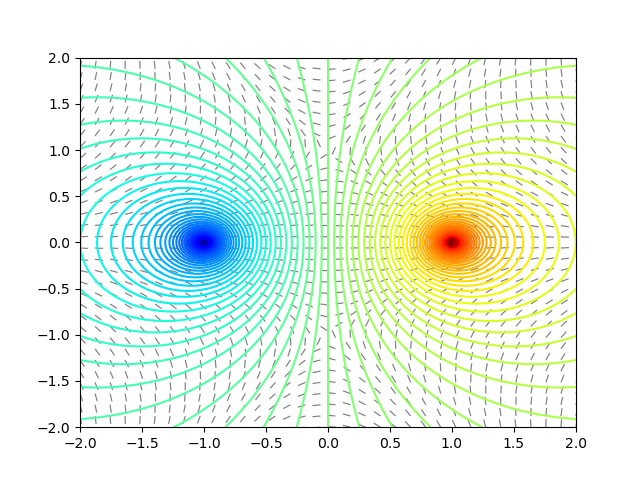
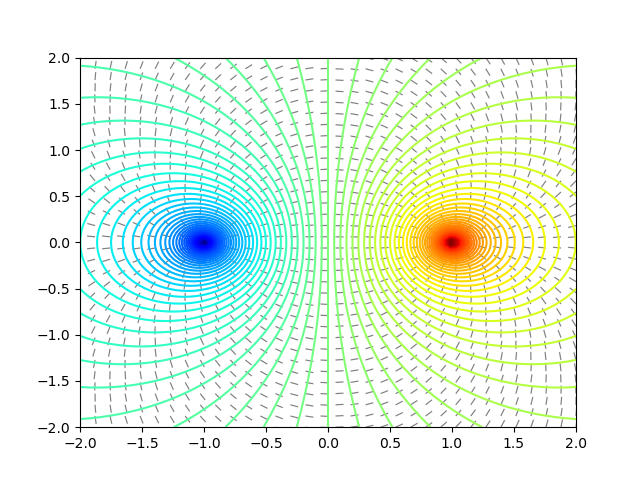
fixed bug

diff --git a/_topics/python/016-dipole.py b/_topics/python/016-dipole.py
@@ -21,15 +21,9 @@ Z = np.zeros([nx,ny])
 U = np.zeros([nx,ny])
 V = np.zeros([nx,ny])
 
-
-for j in range(nx):
-  for k in range(ny):
-    Z[k,j] = -np.log((x[j]-1)**2+y[k]**2) + np.log((x[j]+1)**2+y[k]**2) 
-    U[k,j] = -(x[j]-1)/((x[j]-1)**2+y[k]**2) + (x[j]+1)/((x[j]+1)**2+y[k]**2) 
-    V[k,j] = -(y[k]-0)/((x[j]-1)**2+y[k]**2) + (y[k]+0)/((x[j]+1)**2+y[k]**2) 
-
-
-
+Z = -np.log((X-1)**2+Y**2) + np.log((X+1)**2+Y**2)
+U = -2*(X-1)/((X-1)**2+Y**2) + 2*(X+1)/((X+1)**2+Y**2)
+V = -2*Y/((X-1)**2+Y**2) + 2*Y/((X+1)**2+Y**2)
 
 
 #plt.xlabel(r'$x$')
@@ -43,11 +37,11 @@ V = V / norm
 fig, ax = plt.subplots(1, 1)
 #ax.set_aspect(1)
 
-ax.quiver(Y[0:nx:3,0:ny:3], X[0:nx:3,0:ny:3], U[0:nx:3,0:ny:3], V[0:nx:3,0:ny:3], units='xy', scale=8, color='gray', headwidth=0)
+ax.quiver(X[0:nx:3,0:ny:3], Y[0:nx:3,0:ny:3], U[0:nx:3,0:ny:3], V[0:nx:3,0:ny:3], units='xy', scale=8, color='gray', headwidth=0)
 ax.contour(X, Y, Z, 100, cmap='jet', lw=2)
 
-#plt.xticks([0,L/2,L],['0',r'$L/2$',r'$L$'])
-#plt.yticks([0,M/2,M],['0',r'$M/2$',r'$M$'])
+#plt.xticks([-L,-L/2,0,L/2,L],[r'$-L$',r'$-L/2$','0',r'$L/2$',r'$L$'])
+#plt.yticks([-M,-M/2,0,M/2,M],[r'$-M$',r'$-M/2$','0',r'$M/2$',r'$M$'])
 
 
 #plt.show()
